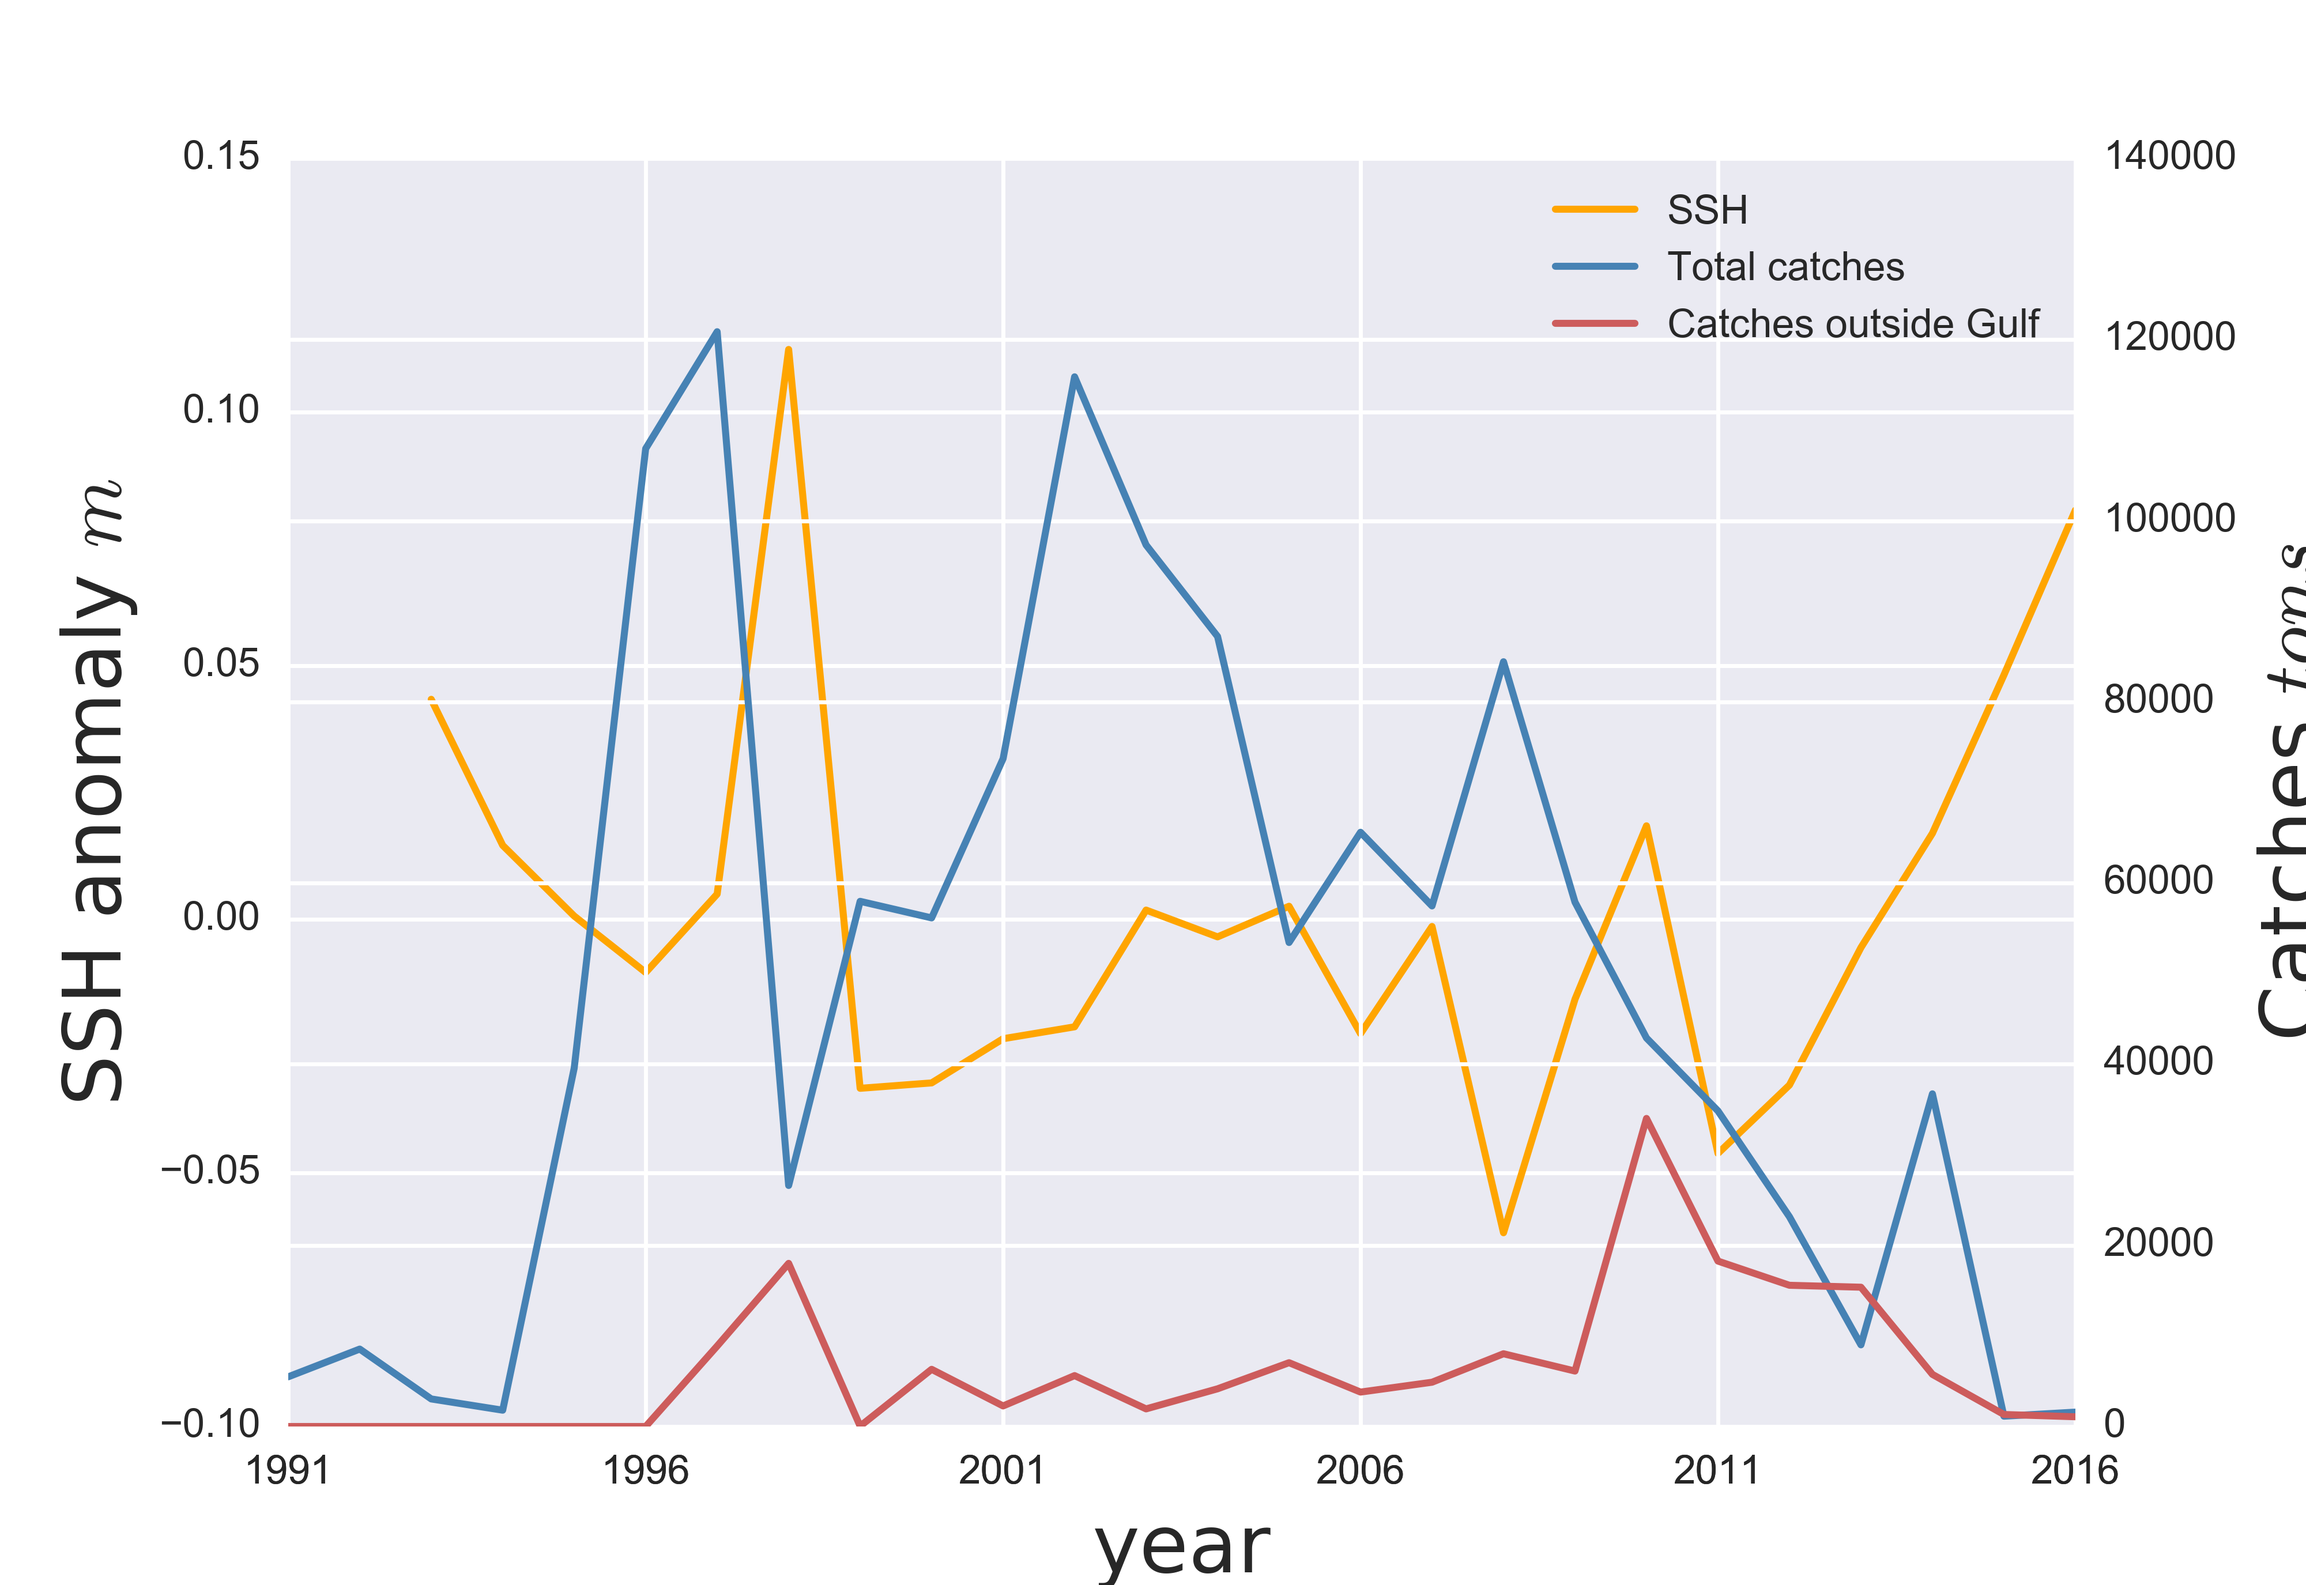
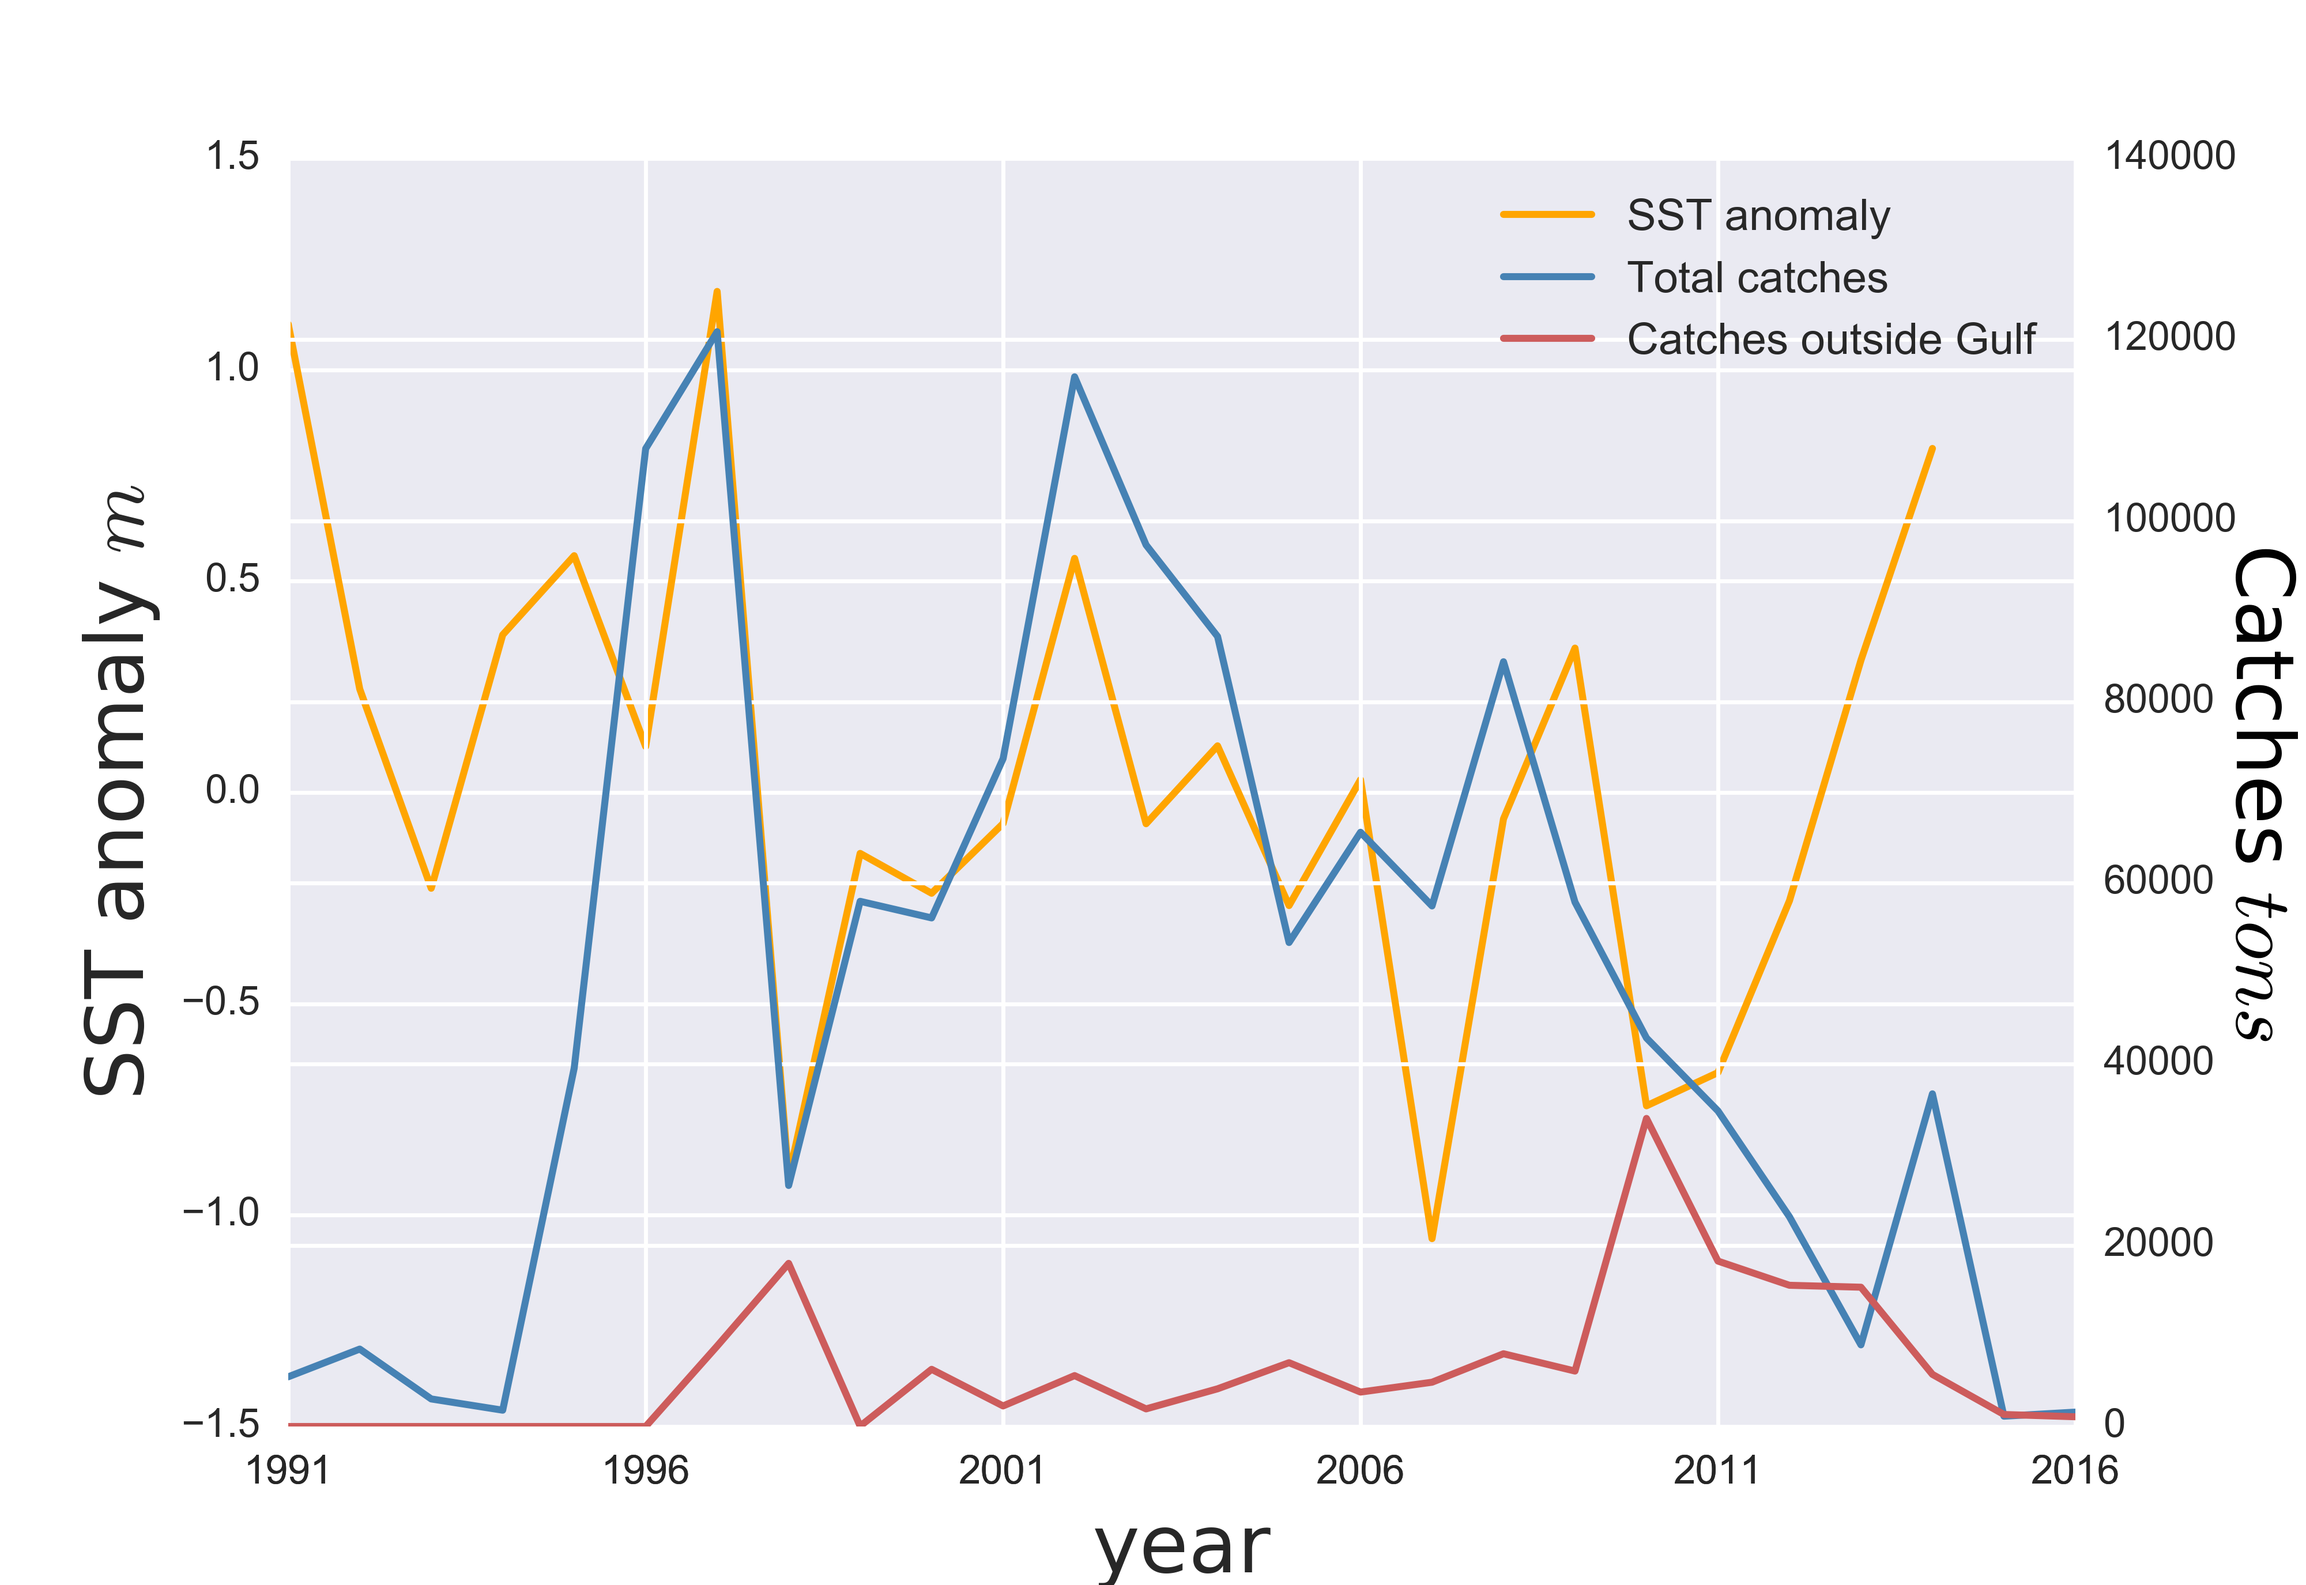
changed R3 figure and code to show SST anomaly rather than SSH

diff --git a/CODE/R3.py b/CODE/R3.py
@@ -23,20 +23,23 @@ df2 = pd.read_excel('./Dropbox/PhD/Resources/Squid/Squid/CODE/Squid/DATA/composi
 yr2 = df2['year']
 C_out = df2['outside_catch']
 
-###### PLOTS ###################################################################
-###! Plot 3D
-fig = plt.figure()
-ax = fig.add_subplot(111, projection='3d')
-colmap = cm.ScalarMappable(cmap=cm.hsv)
-colmap.set_array(yr)
-p = ax.scatter(p,C,T,c=cm.hsv(yr), marker='o')
-cb = fig.colorbar(colmap)
-ax.set_xlabel('relative price pf/pe$')
-ax.set_ylabel('catch')
-ax.set_zlabel('sea surface height')
-# fig.savefig('./Dropbox/PhD/Resources/Squid/Squid/CODE/Squid/FIGS/R3_20180411.png',dpi=500)
-plt.show()
+###### LOAD DATA ###############################################################
+df3 = pd.read_excel('./Dropbox/PhD/Resources/Squid/Squid/Laura/SST_anomaly.xlsx', sheetname='Sheet1')
 
+# load columns
+yr3 = df3['year']
+sst = df3['esst_avg']
+
+# sts = np.array(sst, dtype=pd.Series)
+# tss = np.zeros(25)
+# sts[9:]= tss
+#
+# copyto(sts[9:],tss)
+# sst[9:] = np.empty_like (b)
+# a[:] = b
+
+
+###### PLOTS ###################################################################
 ###! Time series plot
 hfont = {'fontname':'Helvetica'}
 
@@ -44,8 +47,8 @@ hfont = {'fontname':'Helvetica'}
 fig1 = figure()
 # and the first axes using subplot populated with data
 ax1 = fig1.add_subplot(111)
-line1, = ax1.plot(T, color="orange")
-ylabel("SSH anomaly $m$", fontsize=20, **hfont)
+line1, = ax1.plot(sst, color="orange")
+ylabel("SST anomaly $m$", fontsize=20, **hfont)
 xlabel("year", fontsize=20, **hfont)
 ax1.set_xticklabels(np.arange(1991,2017,5))
 ax1.set_xlim(right=2016)
@@ -58,18 +61,34 @@ ax2.yaxis.set_label_position("right")
 # y-axis 2
 ax2.set_ylabel("Catches $tons$", rotation=270, color='k', labelpad=15, fontsize=20, **hfont)
 # for the legend, remember that we used two different axes so, we need to build the legend manually
-plt.legend([line1, line2, line3], ["SSH", "Total catches", "Catches outside Gulf"], fontsize= 11)
-# savefig('./Dropbox/PhD/Resources/Squid/Squid/CODE/Squid/FIGS/R3_support2.png',dpi=500)
+plt.legend([line1, line2, line3], ["SST anomaly", "Total catches", "Catches outside Gulf"], fontsize= 11)
+savefig('./Dropbox/PhD/Resources/Squid/Squid/CODE/Squid/FIGS/R3_support2.png',dpi=500)
 show()
 
-###### STATISTICS #################################################################
+###### STATISTICS ##############################################################
 # T = T[2:26]
 # C = C[2:26]
 # C_out = C_out[2:]
+#
+# from scipy.stats import linregress
+# linregress(T, C)
+# linregress(T, C_out)
 
-from scipy.stats import linregress
-linregress(T, C)
-linregress(T, C_out)
+# # to get the coefficient of determination "r-squared:" r_value**2
+# # r-squared (T,C): -0.18584996957060027
+#
+# rvalue=0.028448939264492042**2
 
-# to get the coefficient of determination "r-squared:" r_value**2
-# r-squared (T,C): -0.18584996957060027
+###### 3D PLOT #################################################################
+# ###! Plot 3D
+# fig = plt.figure()
+# ax = fig.add_subplot(111, projection='3d')
+# colmap = cm.ScalarMappable(cmap=cm.hsv)
+# colmap.set_array(yr)
+# p = ax.scatter(p,C,T,c=cm.hsv(yr), marker='o')
+# cb = fig.colorbar(colmap)
+# ax.set_xlabel('relative price pf/pe$')
+# ax.set_ylabel('catch')
+# ax.set_zlabel('sea surface height')
+# # fig.savefig('./Dropbox/PhD/Resources/Squid/Squid/CODE/Squid/FIGS/R3_20180411.png',dpi=500)
+# plt.show()
